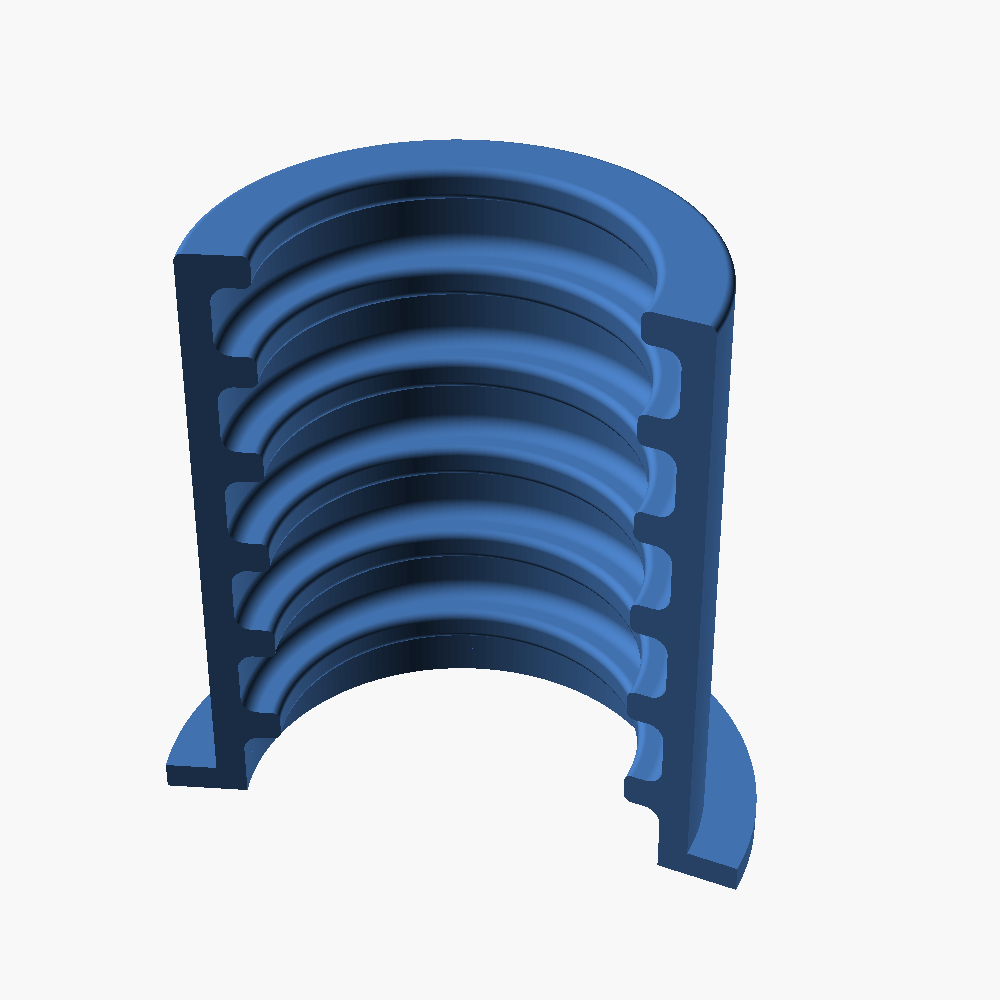
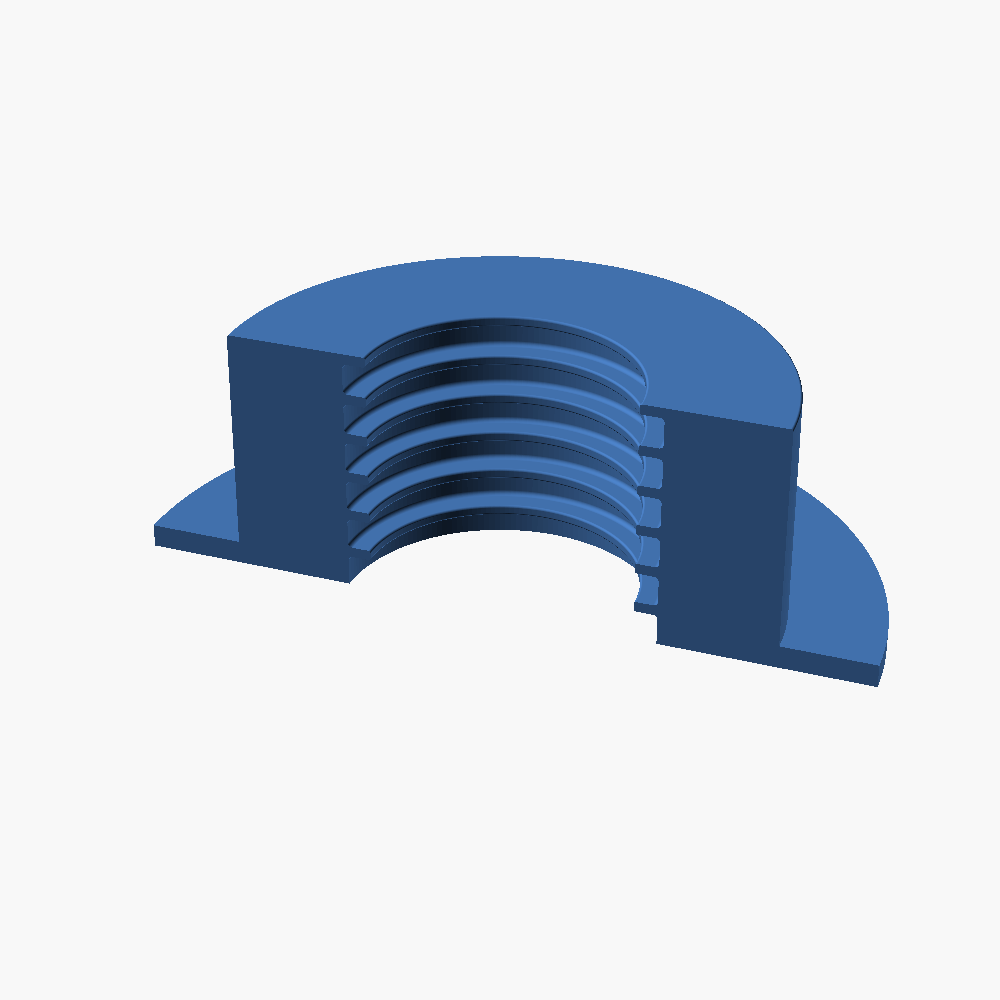
Add 40mm mount 210°/150° complementary pair (wrap full 360° in two parts)

Changed region(s): [[0.155, 0.124, 0.899, 0.899]]

diff --git a/README.md b/README.md
@@ -141,6 +141,8 @@ Customizer's preset dropdown in the GUI):
 | `conduit_40mm` | 40 | 42 | |
 | `conduit_40mm_fittest` | 40 | 43 | 25° fit-test sliver, measured 40 mm pipe (3 mm deep teeth, no flange) |
 | `conduit_40mm_mount` | 40 | 70 | 180° wall mount, measured 40 mm pipe; Ø70 bore, Ø94 flange (12 mm proud of the hole each side), rounded grooves |
+| `conduit_40mm_mount_210` | 40 | 70 | As `_mount` but 210° coverage — snaps onto the pipe; pairs with `_150` to wrap a full 360° |
+| `conduit_40mm_mount_150` | 40 | 70 | As `_mount` but 150° coverage — the 360°−210° complement of `_210` |
 
 The plain `conduit_*` presets only set the two diameters (bore = pipe + 2 mm) and inherit
 the default corrugation/flange values — **adjust `corr_depth` and pitch to your actual
